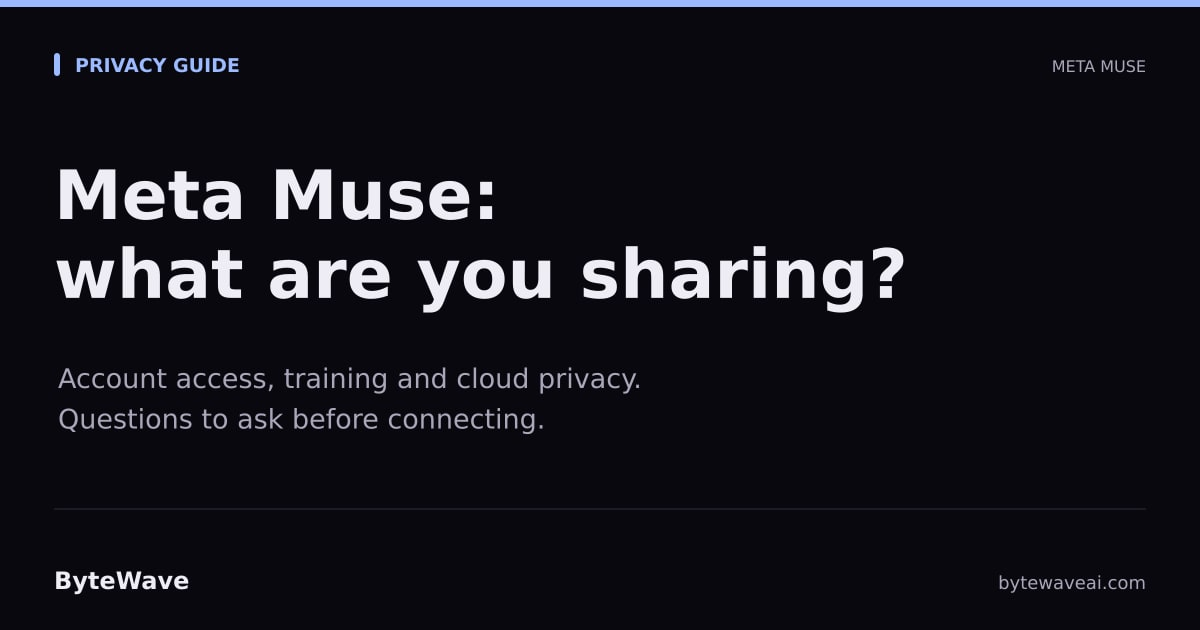
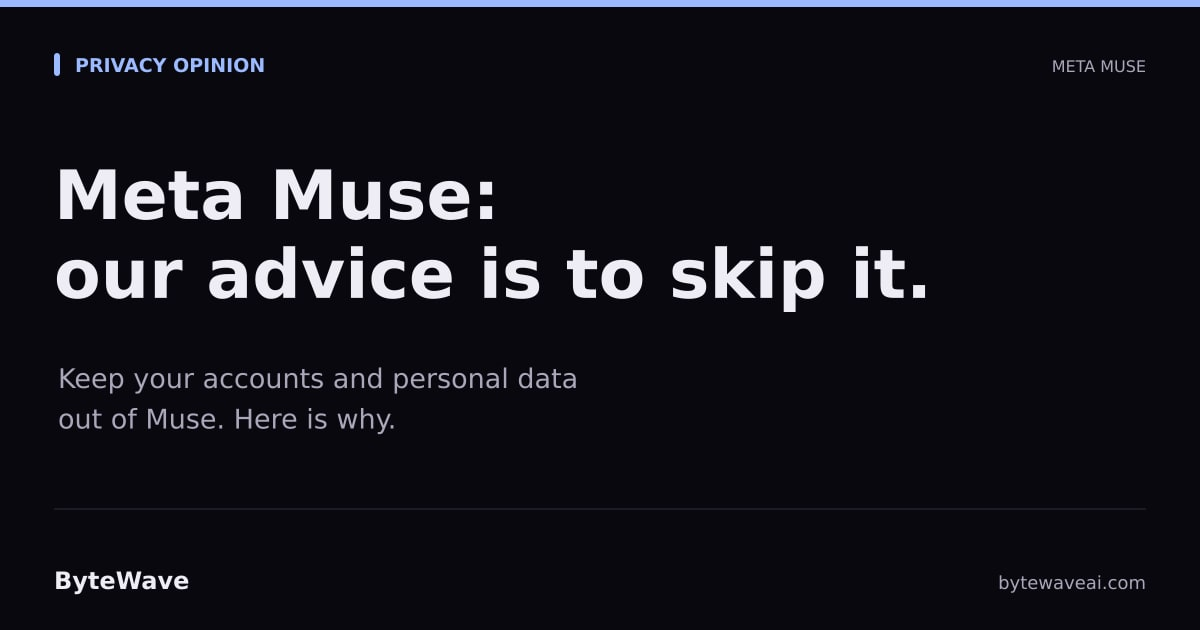
Recommend avoiding Muse instead of advising safer use

Changed region(s): [[0.0308, 0.3921, 0.7708, 0.5127], [0.0308, 0.573, 0.5242, 0.6937], [0.1542, 0.0905, 0.2158, 0.1206]]

diff --git a/blog/meta-muse-privacy-security.html b/blog/meta-muse-privacy-security.html
@@ -3,24 +3,24 @@
 <head>
     <meta charset="UTF-8">
     <meta name="viewport" content="width=device-width, initial-scale=1.0">
-    <title>Meta Muse Privacy and Security: Is It Safe? - ByteWave</title>
-    <meta name="description" content="Before connecting accounts to Meta Muse, review cloud access, training choices, permissions, and the difference between Secure VM and Confidential VM.">
+    <title>Meta Muse Privacy: Why We Say Don’t Use It - ByteWave</title>
+    <meta name="description" content="Our recommendation: do not use Meta Muse or connect your accounts. Learn why its documented data access and training policies do not meet our privacy standard.">
     <link rel="canonical" href="https://bytewaveai.com/blog/meta-muse-privacy-security.html">
     <meta property="og:type" content="article">
-    <meta property="og:title" content="Is Meta Muse Safe? Privacy and Security Questions">
-    <meta property="og:description" content="Before connecting accounts to Meta Muse, review cloud access, training choices, permissions, and the difference between Secure VM and Confidential VM.">
+    <meta property="og:title" content="Meta Muse Privacy: Why We Recommend Not Using It">
+    <meta property="og:description" content="Our recommendation: do not use Meta Muse or connect your accounts. Learn why its documented data access and training policies do not meet our privacy standard.">
     <meta property="og:url" content="https://bytewaveai.com/blog/meta-muse-privacy-security.html">
     <meta property="og:site_name" content="ByteWave">
     <meta property="og:image" content="https://bytewaveai.com/assets/social/meta-muse-privacy-security.jpg">
     <meta property="og:image:type" content="image/jpeg">
     <meta property="og:image:width" content="1200">
     <meta property="og:image:height" content="630">
-    <meta property="og:image:alt" content="Meta Muse privacy and security: questions before connecting your accounts.">
+    <meta property="og:image:alt" content="Meta Muse: our advice is to skip it. Keep your accounts and personal data out of Muse.">
     <meta name="twitter:card" content="summary_large_image">
-    <meta name="twitter:title" content="Is Meta Muse Safe? Privacy and Security Questions">
-    <meta name="twitter:description" content="Before connecting accounts to Meta Muse, review cloud access, training choices, permissions, and the difference between Secure VM and Confidential VM.">
+    <meta name="twitter:title" content="Meta Muse Privacy: Why We Recommend Not Using It">
+    <meta name="twitter:description" content="Our recommendation: do not use Meta Muse or connect your accounts. Learn why its documented data access and training policies do not meet our privacy standard.">
     <meta name="twitter:image" content="https://bytewaveai.com/assets/social/meta-muse-privacy-security.jpg">
-    <meta name="twitter:image:alt" content="Meta Muse privacy and security: questions before connecting your accounts.">
+    <meta name="twitter:image:alt" content="Meta Muse: our advice is to skip it. Keep your accounts and personal data out of Muse.">
     <meta property="article:published_time" content="2026-09-19">
     <meta property="article:modified_time" content="2026-09-19">
     <link rel="icon" href="/favicon-48x48.png">
@@ -36,8 +36,8 @@ article{overflow-wrap:anywhere}h2[id]{scroll-margin-top:6rem}li+li{margin-top:.6
   "@graph": [
     {
       "@type": "BlogPosting",
-      "headline": "Is Meta Muse Safe? Privacy and Security Questions",
-      "description": "Before connecting accounts to Meta Muse, review cloud access, training choices, permissions, and the difference between Secure VM and Confidential VM.",
+      "headline": "Meta Muse Privacy: Why We Recommend Not Using It",
+      "description": "Our recommendation: do not use Meta Muse or connect your accounts. Learn why its documented data access and training policies do not meet our privacy standard.",
       "url": "https://bytewaveai.com/blog/meta-muse-privacy-security.html",
       "mainEntityOfPage": "https://bytewaveai.com/blog/meta-muse-privacy-security.html",
       "datePublished": "2026-09-19",
@@ -81,7 +81,7 @@ article{overflow-wrap:anywhere}h2[id]{scroll-margin-top:6rem}li+li{margin-top:.6
         {
           "@type": "ListItem",
           "position": 3,
-          "name": "Is Meta Muse Safe? Privacy and Security Questions",
+          "name": "Meta Muse Privacy: Why We Recommend Not Using It",
           "item": "https://bytewaveai.com/blog/meta-muse-privacy-security.html"
         }
       ]
@@ -105,42 +105,37 @@ article{overflow-wrap:anywhere}h2[id]{scroll-margin-top:6rem}li+li{margin-top:.6
 </nav>
 <main id="main">
 <article>
-    <p class="eyebrow">Privacy and security</p>
-    <h1>Is Meta Muse Safe? Privacy and Security Questions</h1>
+    <p class="eyebrow">Privacy opinion</p>
+    <h1>Meta Muse Privacy: Why We Recommend Not Using It</h1>
     <p class="meta">By <a href="/about.html">ByteWave</a> · Published <time datetime="2026-09-19">September 19, 2026</time> · Updated <time datetime="2026-09-19">September 19, 2026</time></p>
-    <p class="disclosure">Published by ByteWave, which makes the app discussed here. AI tools assisted research, drafting, and editing. Analysis of linked Meta documentation, not an independent security audit. Product details may change.</p>
+    <p class="disclosure">Published by ByteWave, which makes the app discussed here. AI tools assisted research, drafting, and editing. This article states ByteWave's editorial position, grounded in the linked Meta documentation. Product details may change.</p>
 
-    <p class="lead">Before you connect your email, calendar, or other accounts to Meta Muse, understand what you are letting it read and do. Our view: start with a narrow task and limited permissions, and evaluate the protections available today.</p>
-    <p>If you searched for “Facebook Muse,” this guide covers Meta's personal AI agent. Meta introduced it on September 8, 2026, with access through its own app and WhatsApp. It is a different topic from AI-generated videos appearing in your Facebook feed. <a href="https://about.fb.com/news/2026/09/introducing-muse-personal-ai-agent/">Read Meta's launch announcement</a>.</p>
-    <p class="quick-links"><a href="#privacy">Data and privacy</a><a href="#security">Security concerns</a><a href="#before-connecting">Before connecting accounts</a></p>
+    <p class="lead">Our recommendation is to <strong>not use Meta Muse and not connect your accounts to it</strong>. If you do not want Facebook's parent company to gain access to more of your personal data, do not give it another route into your inbox, calendar, files, or daily life.</p>
+    <p>Meta Muse is Meta's personal AI agent. This article explains why we recommend opting out of the product altogether. You do not need to find the right combination of settings to justify saying no.</p>
+    <p class="quick-links"><a href="#privacy">Why we recommend staying away</a><a href="#security">Why safeguards do not change our view</a><a href="#disconnect">If you already connected accounts</a></p>
 
-    <h2 id="privacy">What does Meta say about Muse privacy?</h2>
-    <p>Meta says Muse runs in a dedicated cloud virtual machine, stores connected-service credentials separately from the agent, and lets users choose and revoke account access. Its announcement describes approvals for sensitive actions and says conversations and VM data are not shared with Meta's advertising systems. These are Meta's stated protections, not findings from an independent ByteWave security audit. <a href="https://about.fb.com/news/2026/09/introducing-muse-personal-ai-agent/">Source: Meta's launch announcement</a>.</p>
-    <p>Meta's technical explanation adds three qualifications: launch-time controls do not prevent Meta from accessing data when needed to operate the service; sanitized interaction data can be used for model training unless users opt out; and activity on third-party sites can indirectly affect advertising. It also describes limited data leaving the VM for inference and telemetry. <a href="https://research.meta.ai/blog/security-and-safety-for-ai-agents-our-approach-with-muse">Source: Meta's security and data explanation</a>.</p>
-    <p>Ask separate questions about storage, training, advertising, and provider access. A reassuring answer about one does not settle the others. For example, deciding against model training does not by itself tell you how long a service retains your files or backups.</p>
+    <h2 id="privacy">Why we recommend staying away from Muse</h2>
+    <p>Meta's technical documentation says the launch version can be accessed by Meta when necessary to support, secure, or operate the service. It describes sanitized interaction data being used for training unless users opt out, and limited data leaving the VM for inference and telemetry. <a href="https://research.meta.ai/blog/security-and-safety-for-ai-agents-our-approach-with-muse">Source: Meta's security and data explanation</a>.</p>
+    <p>That is enough for our recommendation. We do not think the convenience is worth extending this relationship to more of your personal information. Choosing not to participate is a valid privacy decision, even when a company offers permission controls and assurances about how it handles data.</p>
+    <p>Our standard here is straightforward: we do not want to give Meta access to this material. A settings checklist cannot satisfy that goal while encouraging you to hand the material over. Read-only access is still access to what you allow the service to read.</p>
 
-    <h2>Secure VM and Confidential VM are different promises</h2>
-    <p>Meta's launch announcement schedules <strong>Muse Confidential VM</strong> for later in 2026, with protection intended to prevent even Meta from accessing the VM's contents. Do not assume that future promise applies to the launch version of Secure VM. Check the documentation for the version you would actually use. <a href="https://about.fb.com/news/2026/09/introducing-muse-personal-ai-agent/">Source: launch plans for Confidential VM</a>.</p>
-    <p>For your decision, write down what protection you need before choosing a tool. If the requirement is that a provider cannot access a particular document, an announced future feature is not enough to justify uploading that document today.</p>
+    <h2 id="security">Why the advertised safeguards do not change our view</h2>
+    <p>Meta describes account-permission controls, approvals for sensitive actions, and separation of credentials from the agent. It also says Muse conversations and VM data are not shared with Meta's ad systems. Those are specific protections; they are not a promise of no data access or processing. <a href="https://about.fb.com/news/2026/09/introducing-muse-personal-ai-agent/">Source: Meta's launch announcement</a>.</p>
+    <p>Meta also acknowledges that Muse can make mistakes and that prompt injection remains an open problem. Its isolation and Sentinel systems are designed to limit the impact. <a href="https://research.meta.ai/blog/security-and-safety-for-ai-agents-our-approach-with-muse">Source: Meta's security design</a>.</p>
+    <p>We are not comfortable recommending that readers connect sensitive accounts on the strength of those safeguards. You can avoid granting Muse that access in the first place. Our advice is to skip the service, rather than start small and gradually entrust it with more.</p>
 
-    <h2 id="security">What are the security concerns?</h2>
-    <p>Meta acknowledges that agents can make mistakes and encounter prompt injection: hostile instructions embedded in material they read. Its described defenses include an isolated runtime, protected credentials, and a separate Sentinel that controls permissions and outbound requests. Meta does not claim these eliminate every attack. <a href="https://research.meta.ai/blog/security-and-safety-for-ai-agents-our-approach-with-muse">Source: Muse's security design</a>.</p>
-    <p>The practical question is what a mistake could affect in your setup. An assistant reading one event invitation has a different responsibility from one allowed to send messages or make purchases. Evaluate the specific permissions you grant, the approval shown before an action, and the recovery options if the result is wrong.</p>
-    <p>This article identifies documented boundaries and questions to ask. It does not establish that Muse has leaked your information or that a particular attack has succeeded.</p>
+    <h2>A future privacy promise is not a reason to hand over data now</h2>
+    <p>Meta's September 8 launch announcement describes <strong>Muse Confidential VM</strong> as a future release intended to prevent Meta from accessing the VM's contents. That is distinct from the launch version of Secure VM. <a href="https://about.fb.com/news/2026/09/introducing-muse-personal-ai-agent/">Source: Meta's Confidential VM announcement</a>.</p>
+    <p>We would evaluate any delivered version on its actual behavior. An announced future protection does not change our current recommendation to avoid Muse.</p>
 
-    <h2 id="before-connecting">A practical review before connecting accounts</h2>
-    <ol>
-        <li><strong>Choose one job.</strong> Describe the task clearly enough that you can tell whether the requested access is necessary.</li>
-        <li><strong>Read each permission.</strong> Where available, begin with read access and a short-lived approval. Avoid granting ongoing authority simply to finish a one-time task.</li>
-        <li><strong>Review training preferences.</strong> Make a deliberate choice before providing sensitive material; read the current settings explanation.</li>
-        <li><strong>Inspect consequential actions.</strong> Check recipients, attachments, prices, and destinations in approval screens.</li>
-        <li><strong>Find the exit controls.</strong> Check how to disconnect services, remove stored information, and understand retention. Do not assume disconnecting an account deletes every stored copy.</li>
-    </ol>
-    <p>These are our suggested evaluation steps, not a tested click-by-click guide to Muse's settings. Revisit your choices whenever you add an account or expand the tasks you delegate.</p>
+    <h2 id="disconnect">If you already connected accounts</h2>
+    <p>Stop providing Muse with additional personal information. Review and revoke its access in Muse and in the connected services' own account settings. Review available deletion controls and retention information for material you have already supplied.</p>
+    <p>Treat revoking future access and deleting previously stored data as separate tasks. Do not assume that disconnecting a service erases every copy or reverses past processing. These are exit steps, not instructions for continuing to use Muse safely.</p>
+    <p>Avoiding Muse prevents you from voluntarily providing data through that product. It does not erase information Meta already holds or stop collection through other Meta products you continue to use.</p>
 
-    <h2>What this means for your photos and videos</h2>
-    <p>Account privacy and media authenticity are separate questions. You can decide what a service may access and also ask how a suspicious image was made. If that second question brought you here, start with <a href="/blog/how-to-check-ai-generated-photos-videos.html">how to check whether a photo or video is AI-generated</a>, then follow the <a href="/tutorials/check-c2pa-content-credentials/">ByteWave Content Credentials tutorial</a>.</p>
-    <p>ByteWave is a media editor, not a replacement for Muse's personal-agent tasks. For ByteWave's own handling of local editing and optional online features, read our <a href="/privacy.html">privacy policy</a>.</p>
+    <h2>You can choose tools without handing over your daily life</h2>
+    <p>For us, useful software should earn its place by doing the job you asked for with as little access as possible. You are allowed to choose a smaller, more specific tool—or do a task yourself—without connecting your personal accounts to an AI agent.</p>
+    <p>If your immediate concern is whether a photo or video is AI-generated, read our <a href="/blog/how-to-check-ai-generated-photos-videos.html">AI-media checking guide</a> and <a href="/tutorials/check-c2pa-content-credentials/">ByteWave Content Credentials tutorial</a>. Inspecting an imported clip does not require publishing it to ByteWave's public feed. Our <a href="/privacy.html">privacy policy</a> explains ByteWave's own data handling.</p>
 
     <div class="callout">
         <h2>Explore ByteWave</h2>

diff --git a/blog/index.html b/blog/index.html
@@ -156,9 +156,9 @@ footer .tagline{margin-top:.3rem;font-size:.7rem;letter-spacing:0.3px}
   <p class="subtitle">Current analysis, firsthand product documentation, technical guides, and disclosed comparisons.</p>
 
   <a href="/blog/meta-muse-privacy-security.html" class="post-card">
-    <span class="tag">Privacy and security</span>
-    <h2>Is Meta Muse Safe? Privacy and Security Questions</h2>
-    <p>Before connecting accounts to Meta Muse, review cloud access, training choices, permissions, and the difference between Secure VM and Confidential VM.</p>
+    <span class="tag">Privacy opinion</span>
+    <h2>Meta Muse Privacy: Why We Recommend Not Using It</h2>
+    <p>Our recommendation: do not use Meta Muse or connect your accounts. Learn why its documented data access and training policies do not meet our privacy standard.</p>
   </a>
 
   <a href="/blog/how-to-check-ai-generated-photos-videos.html" class="post-card">
